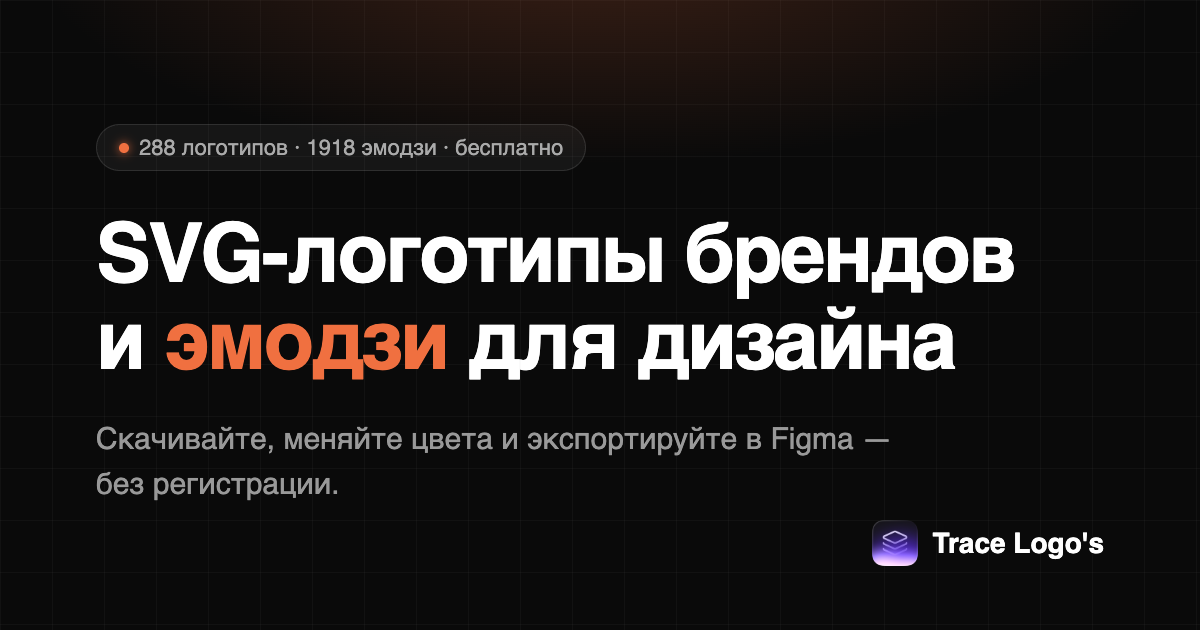
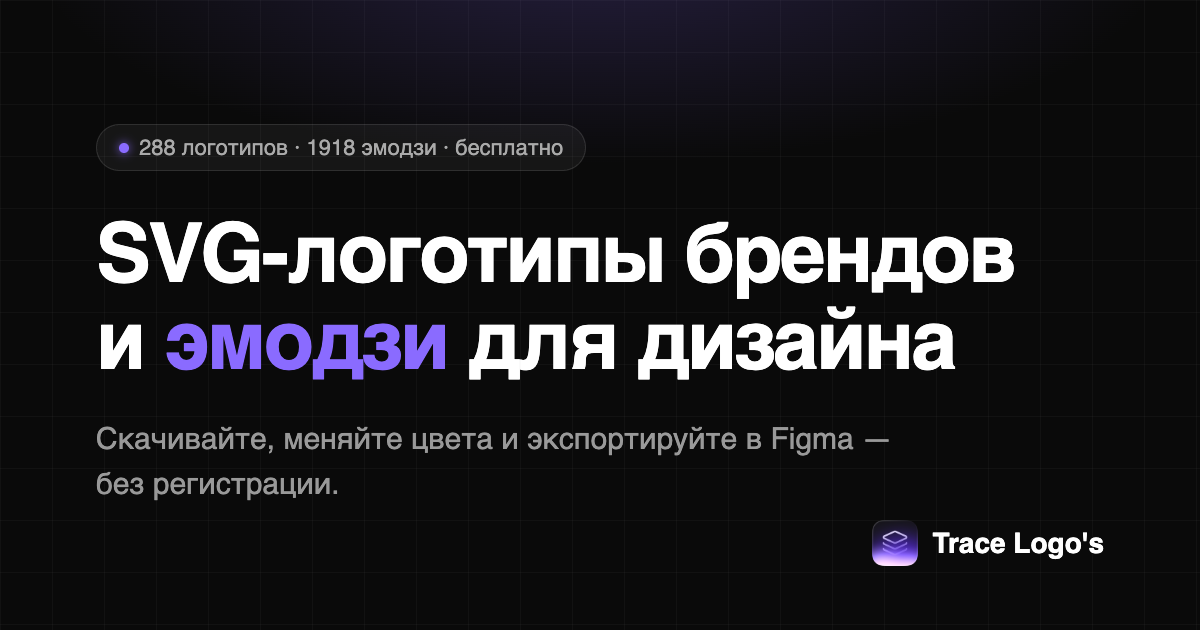
Акцентный цвет главной → фиолетовый под новый логотип
- --accent #f07040 → #8a6bff, свечения/тени rgb(138,107,255)
- css/home.css: акцентный текст, бейджи, точки, фон-градиент
- build-og-home.js + перегенерация assets/og/home.png

Changed region(s): [[0.1233, 0.5127, 0.37, 0.6032], [0.3392, 0.0, 0.6475, 0.0603], [0.0925, 0.2111, 0.1233, 0.2413]]

diff --git a/css/home.css b/css/home.css
@@ -7,8 +7,8 @@
 
 :root {
   --bg: #0a0a0a;
-  --accent: #f07040;
-  --accent-dim: rgba(240, 112, 64, 0.12);
+  --accent: #8a6bff;
+  --accent-dim: rgba(138, 107, 255, 0.12);
   --text: #ffffff;
   --text-muted: #888888;
   --text-dim: #5a5a5a;
@@ -28,7 +28,7 @@ body {
   font-family: 'Inter', -apple-system, BlinkMacSystemFont, 'Segoe UI', sans-serif;
   background-color: var(--bg);
   background-image:
-    radial-gradient(ellipse 80% 50% at 50% -10%, rgba(240,112,64,0.18) 0%, transparent 65%),
+    radial-gradient(ellipse 80% 50% at 50% -10%, rgba(138, 107, 255,0.18) 0%, transparent 65%),
     linear-gradient(rgba(255,255,255,0.022) 1px, transparent 1px),
     linear-gradient(90deg, rgba(255,255,255,0.022) 1px, transparent 1px);
   background-size: 100% 100%, 52px 52px, 52px 52px;
@@ -65,7 +65,7 @@ a { color: inherit; }
 .brand-name { font-size: 14px; font-weight: 600; letter-spacing: -0.01em; }
 .brand-badge {
   display: inline-block; font-size: 10px; font-weight: 600; color: var(--accent);
-  background: var(--accent-dim); border: 1px solid rgba(240, 112, 64, 0.2);
+  background: var(--accent-dim); border: 1px solid rgba(138, 107, 255, 0.2);
   border-radius: 4px; padding: 1px 6px; margin-left: 7px; letter-spacing: 0.03em; vertical-align: middle;
 }
 .header-nav { display: flex; align-items: center; gap: 4px; margin-left: auto; }
@@ -229,7 +229,7 @@ a { color: inherit; }
   border-radius: 20px;
   border: 1px solid var(--border);
   background:
-    radial-gradient(120% 120% at 0% 0%, rgba(240,112,64,0.10) 0%, transparent 45%),
+    radial-gradient(120% 120% at 0% 0%, rgba(138, 107, 255,0.10) 0%, transparent 45%),
     linear-gradient(180deg, rgba(255,255,255,0.05), rgba(255,255,255,0.02));
   overflow: hidden;
 }
@@ -261,9 +261,9 @@ a { color: inherit; }
   font-size: 14px; font-weight: 600; color: #fff; text-decoration: none;
   background: var(--accent); border-radius: 10px; padding: 11px 18px;
   transition: transform .15s, box-shadow .15s, filter .15s;
-  box-shadow: 0 6px 22px rgba(240,112,64,0.28);
+  box-shadow: 0 6px 22px rgba(138, 107, 255,0.28);
 }
-.ff-btn:hover { transform: translateY(-1px); filter: brightness(1.05); box-shadow: 0 10px 28px rgba(240,112,64,0.36); }
+.ff-btn:hover { transform: translateY(-1px); filter: brightness(1.05); box-shadow: 0 10px 28px rgba(138, 107, 255,0.36); }
 .ff-free { font-size: 12.5px; color: var(--text-dim); }
 
 /* Mock plugin window */
